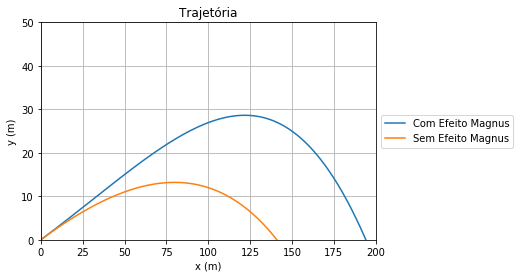
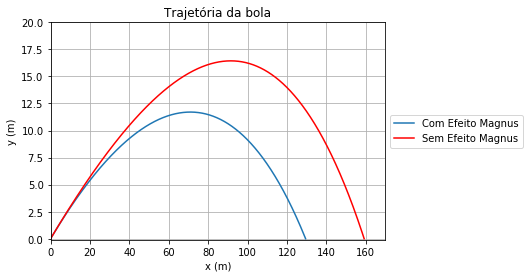
.

diff --git a/Código - gráficos.py b/Código - gráficos.py
@@ -175,7 +175,8 @@ plt.title("Trajetória da bola")
 plt.xlabel("x (m)")
 plt.ylabel("y (m)")
 plt.grid(True)
-plt.legend(loc='center left', bbox_to_anchor=(1, 0.5), scatterpoints=1, frameon=False, labelspacing=1, title='Ângulo de lançamento:')
+plt.legend(loc='center left', bbox_to_anchor=(1, 0.5))
+plt.axis([0,170, 0, 20])
 plt.show()
 
 # Gráfico 3D

diff --git a/varios angulos de lancamento.py b/varios angulos de lancamento.py
@@ -198,4 +198,4 @@ ax.set_xlabel("x (m)")
 ax.set_ylabel("z (m)")
 ax.set_zlabel("y (m)")
 ax.set_title("Trajetória da bola")
-plt.legend(loc='center left', bbox_to_anchor=(1, 0.5))
+plt.legend(loc='center left', bbox_to_anchor=(1, 0.5), scatterpoints=1, frameon=False, labelspacing=1, title='Ângulo de lançamento:')
